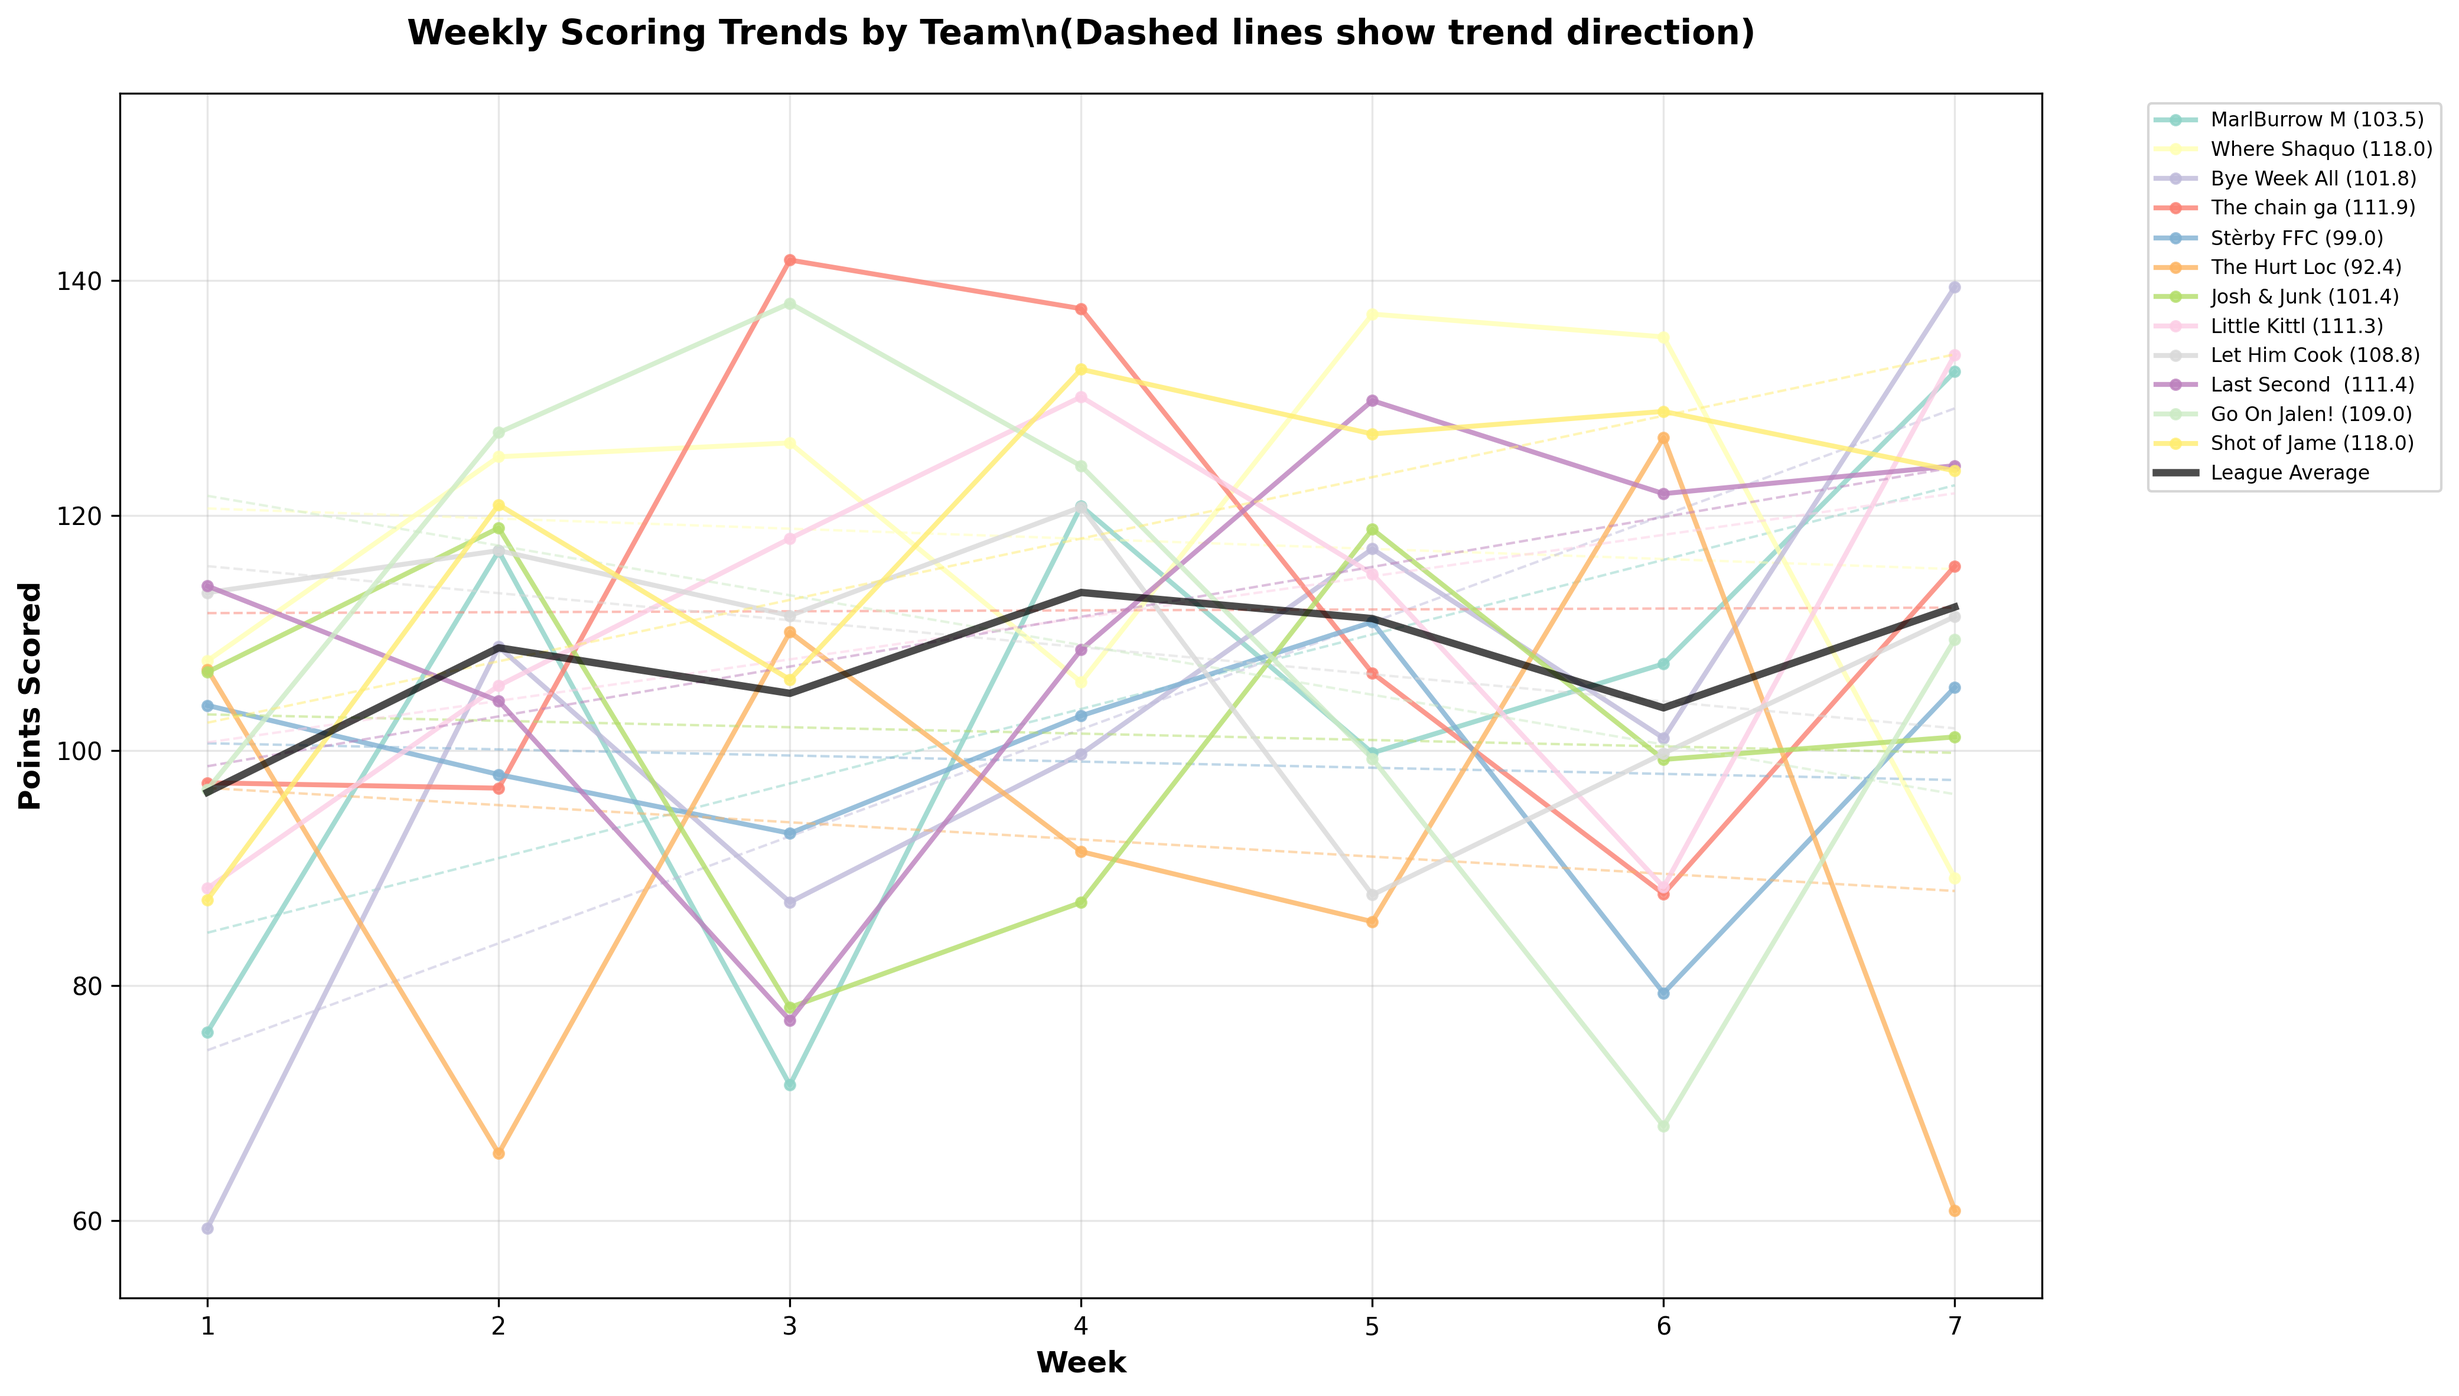
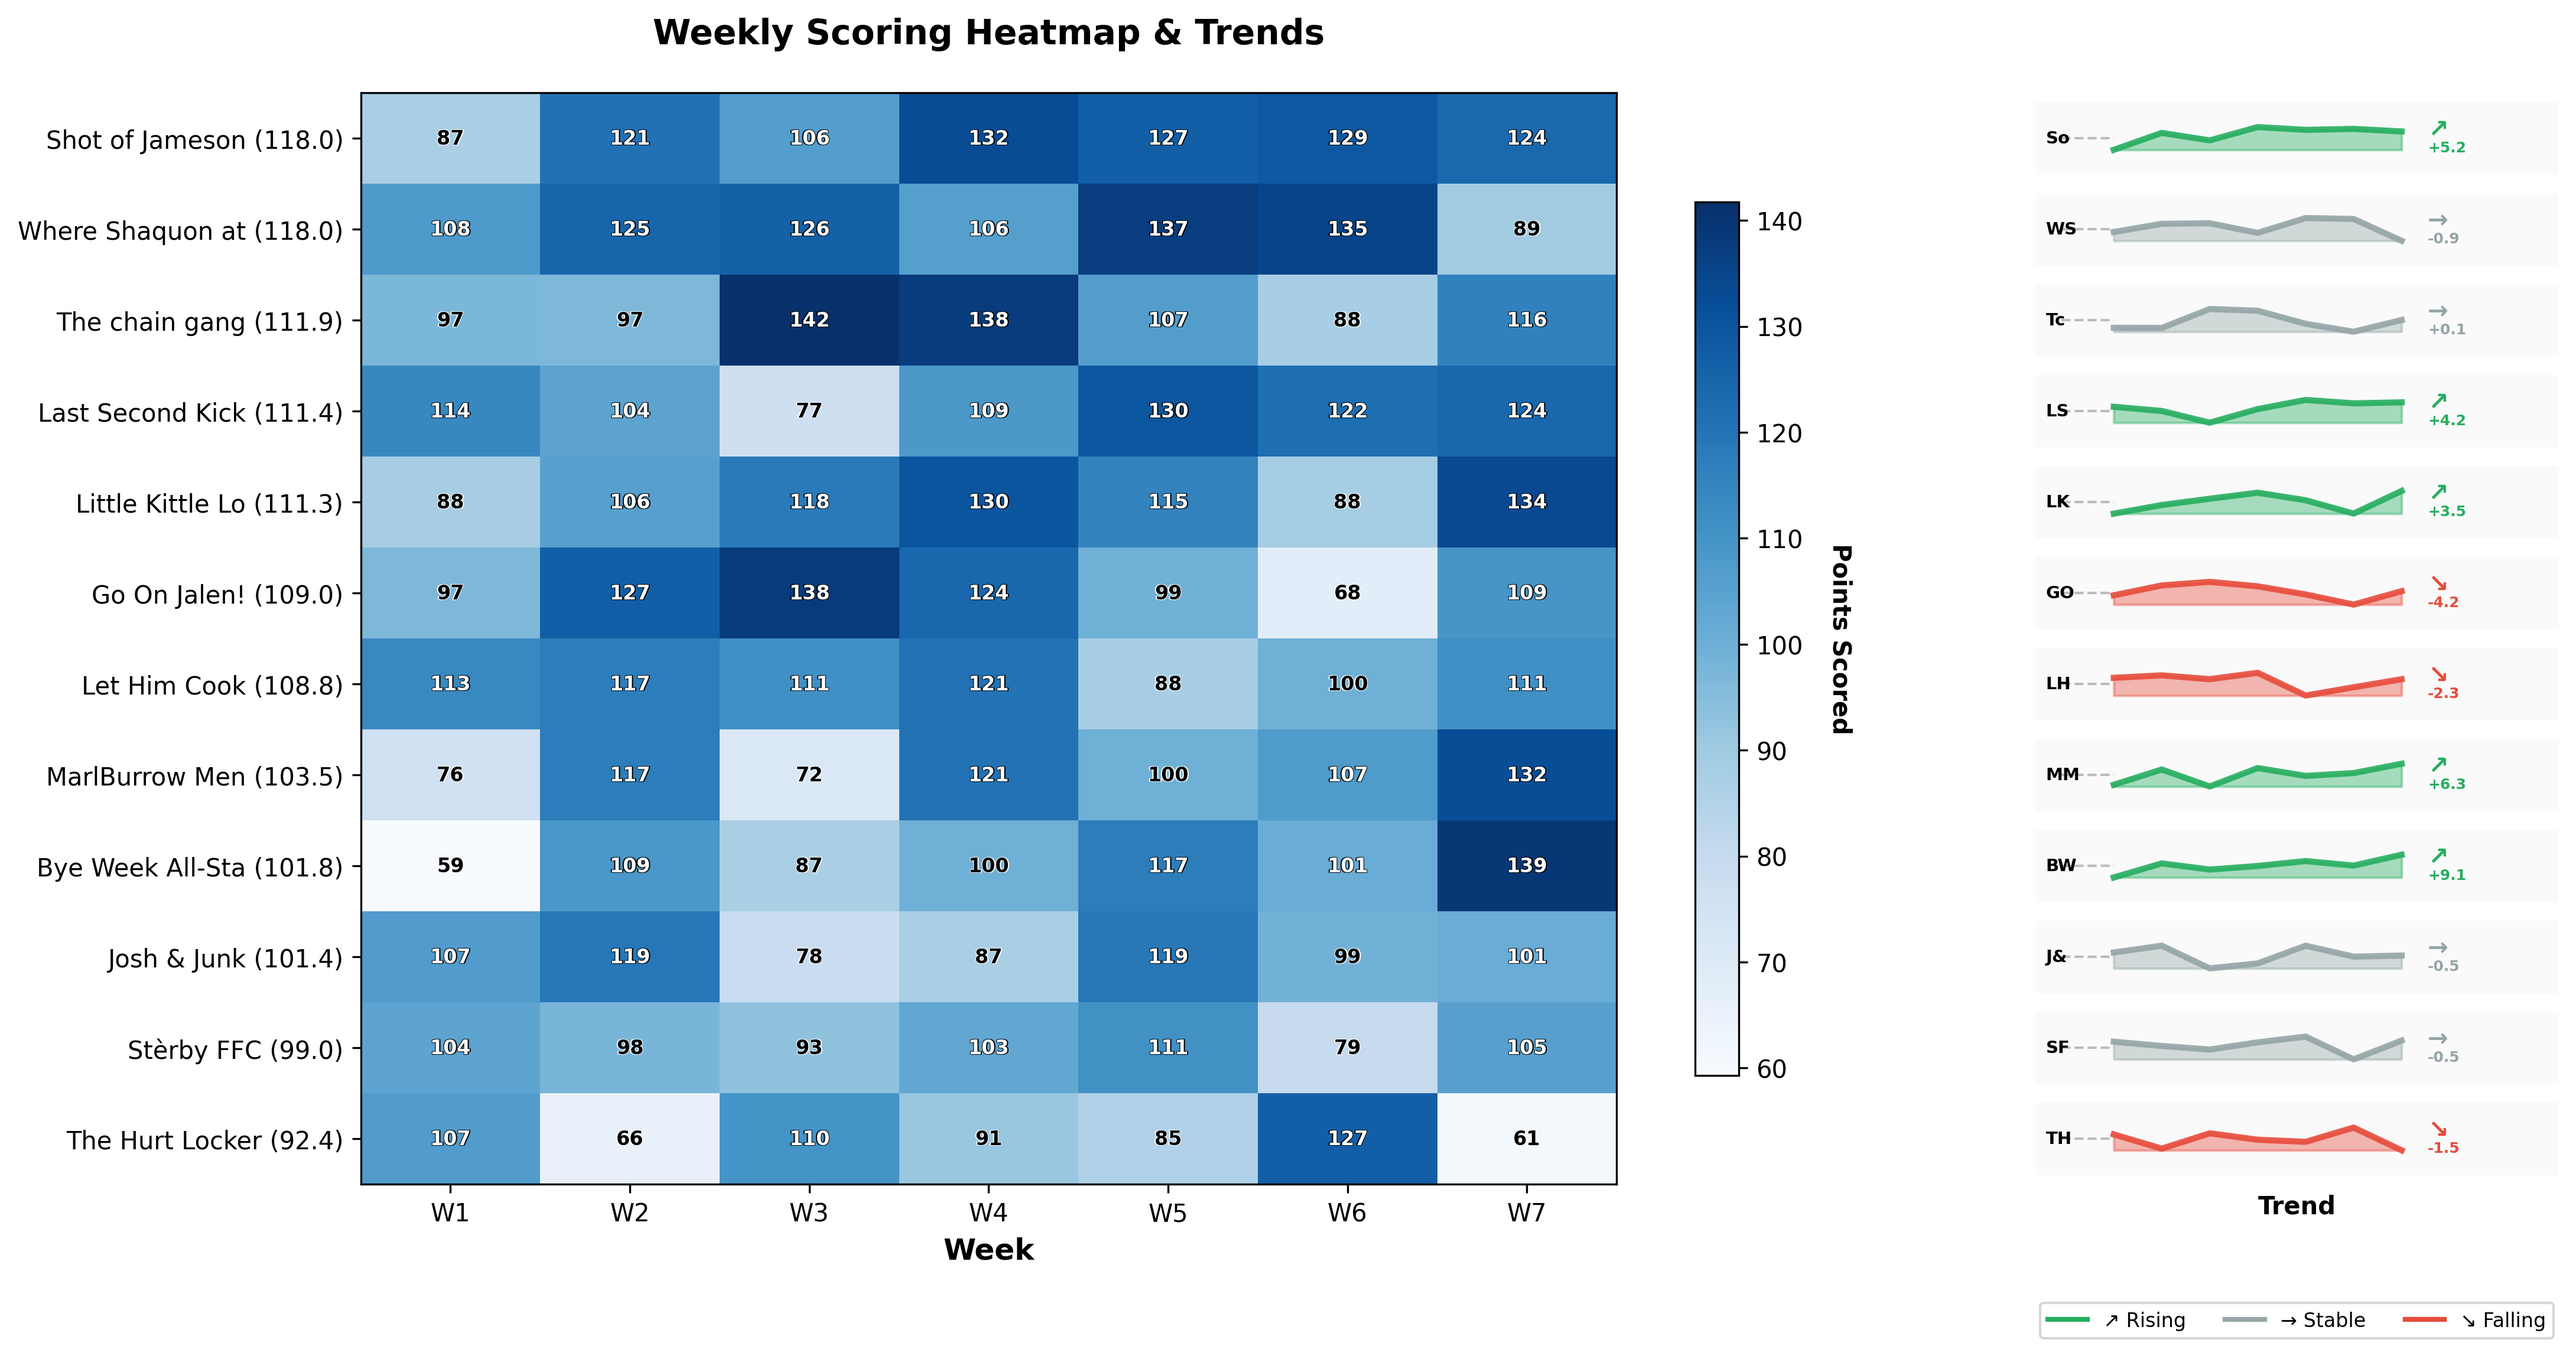
Enhanced scoring trends visualization with heatmap and improved sparklines
- Replaced line chart with color-coded heatmap (white to blue gradient)
- Added sparklines with team association improvements:
  - Team abbreviations for clear identification
  - Connecting lines between heatmap and sparklines
  - Background shading for visual separation
  - Repositioned legend to avoid overlap
- Improved text readability with better contrast logic and outlines
- Enhanced trend indicators with numerical slope values

diff --git a/src/ggg_luck/main.py b/src/ggg_luck/main.py
@@ -652,7 +652,7 @@ This analysis reveals which teams have been **schedule beneficiaries** versus **
 
 ![Scoring Trends](charts/scoring_trends.png)
 
-This visualization reveals crucial **momentum patterns** and **scoring consistency** across all teams. The solid lines show actual weekly scores, while dashed trend lines indicate each team's trajectory. Teams with strong upward trends are building momentum for playoff pushes.
+This **heatmap visualization** displays each team's weekly scoring performance with color-coded intensity. Darker blue cells indicate higher scores, while lighter/white cells show lower performances. The **sparklines** on the right reveal each team's trajectory: ↗ rising trends (green), → stable performance (gray), and ↘ declining trends (red). Teams are sorted by average scoring to easily identify the strongest performers.
 
 ### 🔥 Momentum Analysis
 
@@ -832,62 +832,159 @@ This visualization reveals crucial **momentum patterns** and **scoring consisten
         plt.close()
 
     def _create_scoring_trends_chart(self, luck_metrics: List[LuckMetrics], charts_dir: str):
-        """Create a line chart showing weekly scoring trends for all teams."""
-        plt.figure(figsize=(14, 8))
-        
+        """Create a heatmap showing weekly scoring trends with sparklines for each team."""
         # Filter teams with scoring trends
         teams_with_trends = [m for m in luck_metrics if m.scoring_trends]
         
         if not teams_with_trends:
             return
-            
-        # Create color palette
-        colors = plt.cm.Set3(np.linspace(0, 1, len(teams_with_trends)))
         
+        # Sort teams by average score for better visualization
+        teams_with_trends.sort(key=lambda x: x.scoring_trends.avg_score, reverse=True)
+        
+        # Prepare data for heatmap
+        max_weeks = max(len(m.scoring_trends.weekly_scores) for m in teams_with_trends)
+        heatmap_data = []
+        team_names = []
+        
+        for metrics in teams_with_trends:
+            trends = metrics.scoring_trends
+            # Pad with NaN if team has fewer weeks
+            scores = trends.weekly_scores + [np.nan] * (max_weeks - len(trends.weekly_scores))
+            heatmap_data.append(scores)
+            team_names.append(f"{metrics.team_name[:16]} ({trends.avg_score:.1f})")
+        
+        # Create figure with custom layout for heatmap and sparklines
+        fig = plt.figure(figsize=(16, max(8, len(teams_with_trends) * 0.6)))
+        
+        # Create subplot layout: heatmap takes 75%, sparklines take 25%
+        gs = fig.add_gridspec(1, 2, width_ratios=[3, 1], wspace=0.1)
+        
+        # Create heatmap
+        ax_heatmap = fig.add_subplot(gs[0])
+        heatmap_array = np.array(heatmap_data)
+        
+        # Create custom colormap - white for low scores, blue for high scores
+        im = ax_heatmap.imshow(heatmap_array, cmap='Blues', aspect='auto', interpolation='nearest')
+        
+        # Set heatmap labels and formatting
+        ax_heatmap.set_xticks(range(max_weeks))
+        ax_heatmap.set_xticklabels([f'W{i+1}' for i in range(max_weeks)])
+        ax_heatmap.set_yticks(range(len(team_names)))
+        ax_heatmap.set_yticklabels(team_names)
+        ax_heatmap.set_xlabel('Week', fontsize=12, fontweight='bold')
+        ax_heatmap.set_title('Weekly Scoring Heatmap & Trends', fontsize=14, fontweight='bold', pad=20)
+        
+        # Add text annotations with scores
+        # Calculate percentiles for better color contrast decisions
+        valid_scores = heatmap_array[~np.isnan(heatmap_array)]
+        score_min, score_max = np.min(valid_scores), np.max(valid_scores)
+        score_range = score_max - score_min
+        
+        for i in range(len(teams_with_trends)):
+            for j in range(max_weeks):
+                if j < len(teams_with_trends[i].scoring_trends.weekly_scores):
+                    score = teams_with_trends[i].scoring_trends.weekly_scores[j]
+                    
+                    # Normalize score to 0-1 range to match colormap
+                    normalized_score = (score - score_min) / score_range if score_range > 0 else 0.5
+                    
+                    # Use white text for darker colors (blue = high scores)
+                    # and black text for lighter colors (white = low scores)
+                    text_color = 'white' if normalized_score > 0.5 else 'black'
+                    
+                    # Add text with outline for better readability
+                    outline_color = 'black' if text_color == 'white' else 'white'
+                    
+                    # Draw outline by drawing text multiple times with slight offsets
+                    for dx, dy in [(-0.5, -0.5), (-0.5, 0.5), (0.5, -0.5), (0.5, 0.5)]:
+                        ax_heatmap.text(j + dx/100, i + dy/100, f'{score:.0f}', ha='center', va='center', 
+                                      fontsize=8, fontweight='bold', color=outline_color, alpha=0.8)
+                    
+                    # Draw main text
+                    ax_heatmap.text(j, i, f'{score:.0f}', ha='center', va='center', 
+                                  fontsize=8, fontweight='bold', color=text_color)
+        
+        # Add colorbar
+        cbar = plt.colorbar(im, ax=ax_heatmap, shrink=0.8)
+        cbar.set_label('Points Scored', rotation=270, labelpad=20, fontsize=10, fontweight='bold')
+        
+        # Create sparklines subplot
+        ax_sparklines = fig.add_subplot(gs[1])
+        ax_sparklines.set_xlim(0, 1)
+        ax_sparklines.set_ylim(-0.5, len(teams_with_trends) - 0.5)
+        
+        # Draw sparklines for each team with improved team association
         for i, metrics in enumerate(teams_with_trends):
             trends = metrics.scoring_trends
-            weeks = range(1, len(trends.weekly_scores) + 1)
-            
-            # Plot the scoring line
-            plt.plot(weeks, trends.weekly_scores, 
-                    color=colors[i], marker='o', linewidth=2, markersize=4, 
-                    label=f"{metrics.team_name[:12]} ({trends.avg_score:.1f})", alpha=0.8)
-            
-            # Add trend line
             if len(trends.weekly_scores) > 1:
-                z = np.polyfit(weeks, trends.weekly_scores, 1)
-                trend_line = np.poly1d(z)
-                plt.plot(weeks, trend_line(weeks), 
-                        color=colors[i], linestyle='--', alpha=0.5, linewidth=1)
+                # Normalize the sparkline to fit in the subplot
+                y_pos = len(teams_with_trends) - 1 - i  # Flip to match heatmap order
+                
+                # Add subtle background shading to match team rows
+                ax_sparklines.axhspan(y_pos - 0.4, y_pos + 0.4, 
+                                    facecolor='lightgray', alpha=0.1, zorder=0)
+                
+                # Create mini x-axis for this team's sparkline
+                x_norm = np.linspace(0.15, 0.7, len(trends.weekly_scores))
+                
+                # Normalize scores to fit in a small vertical space
+                scores_norm = np.array(trends.weekly_scores)
+                scores_min, scores_max = scores_norm.min(), scores_norm.max()
+                if scores_max > scores_min:
+                    scores_norm = (scores_norm - scores_min) / (scores_max - scores_min) * 0.25
+                else:
+                    scores_norm = np.zeros_like(scores_norm)
+                
+                # Offset to center around the team's row
+                scores_norm = scores_norm + y_pos - 0.125
+                
+                # Determine sparkline color based on trend
+                if trends.trend_slope > 1:
+                    color = '#27ae60'  # Green for positive trend
+                elif trends.trend_slope < -1:
+                    color = '#e74c3c'  # Red for negative trend
+                else:
+                    color = '#95a5a6'  # Gray for neutral trend
+                
+                # Draw connecting line from heatmap to sparkline
+                ax_sparklines.plot([0.05, 0.15], [y_pos, y_pos], 
+                                 color='gray', linewidth=1, alpha=0.5, linestyle='--')
+                
+                # Draw the sparkline
+                ax_sparklines.plot(x_norm, scores_norm, color=color, linewidth=2.5, alpha=0.9)
+                ax_sparklines.fill_between(x_norm, y_pos - 0.125, scores_norm, 
+                                         color=color, alpha=0.4)
+                
+                # Add team abbreviation on the left
+                team_abbr = ''.join([word[0] for word in metrics.team_name.split()[:2]])[:3]
+                ax_sparklines.text(0.02, y_pos, team_abbr, ha='left', va='center',
+                                 fontsize=7, fontweight='bold', color='black')
+                
+                # Add trend indicator and value on the right
+                trend_symbol = "↗" if trends.trend_slope > 1 else "↘" if trends.trend_slope < -1 else "→"
+                ax_sparklines.text(0.75, y_pos + 0.1, trend_symbol, ha='left', va='center',
+                                 fontsize=10, fontweight='bold', color=color)
+                ax_sparklines.text(0.75, y_pos - 0.1, f'{trends.trend_slope:+.1f}', ha='left', va='center',
+                                 fontsize=6, color=color, fontweight='bold')
         
-        # Add league average line
-        all_scores = []
-        max_weeks = max(len(m.scoring_trends.weekly_scores) for m in teams_with_trends)
+        # Format sparklines subplot
+        ax_sparklines.set_xticks([])
+        ax_sparklines.set_yticks([])
+        ax_sparklines.set_xlabel('Trend', fontsize=10, fontweight='bold')
+        ax_sparklines.spines['top'].set_visible(False)
+        ax_sparklines.spines['right'].set_visible(False)
+        ax_sparklines.spines['bottom'].set_visible(False)
+        ax_sparklines.spines['left'].set_visible(False)
         
-        for week in range(1, max_weeks + 1):
-            week_scores = [m.scoring_trends.weekly_scores[week-1] 
-                          for m in teams_with_trends 
-                          if len(m.scoring_trends.weekly_scores) >= week]
-            if week_scores:
-                all_scores.append(np.mean(week_scores))
-        
-        if all_scores:
-            plt.plot(range(1, len(all_scores) + 1), all_scores, 
-                    color='black', linewidth=3, linestyle='-', 
-                    label='League Average', alpha=0.7)
-        
-        plt.xlabel('Week', fontsize=12, fontweight='bold')
-        plt.ylabel('Points Scored', fontsize=12, fontweight='bold')
-        plt.title('Weekly Scoring Trends by Team\\n(Dashed lines show trend direction)', fontsize=14, fontweight='bold', pad=20)
-        plt.grid(True, alpha=0.3)
-        plt.legend(bbox_to_anchor=(1.05, 1), loc='upper left', fontsize=8)
-        
-        # Set reasonable axis limits
-        if teams_with_trends:
-            all_weekly_scores = [score for m in teams_with_trends for score in m.scoring_trends.weekly_scores]
-            min_score = min(all_weekly_scores) * 0.9
-            max_score = max(all_weekly_scores) * 1.1
-            plt.ylim(min_score, max_score)
+        # Add legend for sparklines at the bottom
+        legend_elements = [
+            plt.Line2D([0], [0], color='#27ae60', lw=2, label='↗ Rising'),
+            plt.Line2D([0], [0], color='#95a5a6', lw=2, label='→ Stable'), 
+            plt.Line2D([0], [0], color='#e74c3c', lw=2, label='↘ Falling')
+        ]
+        ax_sparklines.legend(handles=legend_elements, loc='lower center', 
+                           bbox_to_anchor=(0.5, -0.15), fontsize=8, ncol=3)
         
         plt.tight_layout()
         plt.savefig(f'{charts_dir}/scoring_trends.png', dpi=300, bbox_inches='tight')

diff --git a/analysis_report.md b/analysis_report.md
@@ -79,7 +79,7 @@ This analysis reveals which teams have been **schedule beneficiaries** versus **
 
 ![Scoring Trends](charts/scoring_trends.png)
 
-This visualization reveals crucial **momentum patterns** and **scoring consistency** across all teams. The solid lines show actual weekly scores, while dashed trend lines indicate each team's trajectory. Teams with strong upward trends are building momentum for playoff pushes.
+This **heatmap visualization** displays each team's weekly scoring performance with color-coded intensity. Darker blue cells indicate higher scores, while lighter/white cells show lower performances. The **sparklines** on the right reveal each team's trajectory: ↗ rising trends (green), → stable performance (gray), and ↘ declining trends (red). Teams are sorted by average scoring to easily identify the strongest performers.
 
 ### 🔥 Momentum Analysis
 
